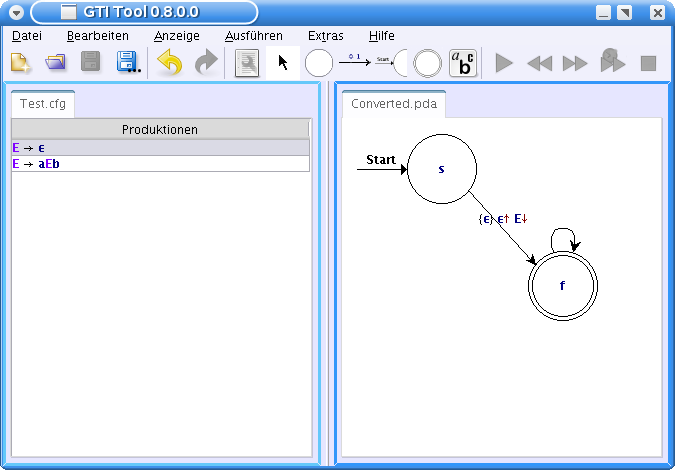
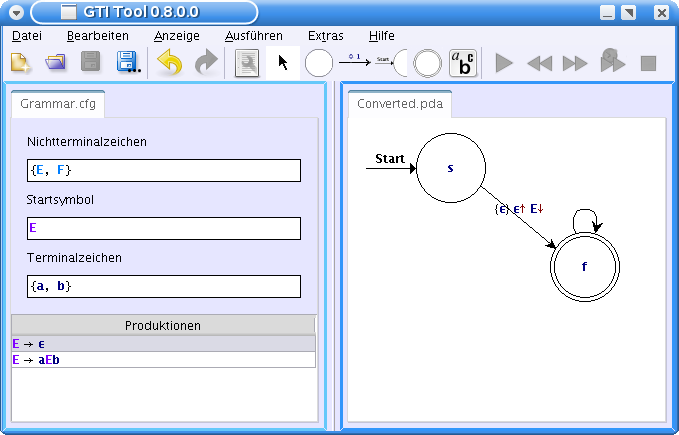
- Complete the right aligned word. - Update the manual. - Update manual images.
git-svn-id: https://vcs.informatik.uni-siegen.de/svn/gtitool/trunk@1173 d1fb0f2a-2248-4f96-a540-7c12a6a72a62

diff --git a/de.unisiegen.gtitool.ui/source/de/unisiegen/gtitool/ui/style/document/StyledParserDocument.java b/de.unisiegen.gtitool.ui/source/de/unisiegen/gtitool/ui/style/document/StyledParserDocument.java
@@ -246,6 +246,20 @@ public final class StyledParserDocument < E extends Entity < E > > extends
 
 
   /**
+   * Returns the hide highlighted {@link Entity} set.
+   * 
+   * @return The hide highlighted {@link Entity} set.
+   */
+  private final SimpleAttributeSet getAttributeSetHideHighlightedParseableEntity ()
+  {
+    SimpleAttributeSet set = new SimpleAttributeSet ();
+    StyleConstants.setBackground ( set, Color.WHITE );
+    StyleConstants.setForeground ( set, Color.WHITE );
+    return set;
+  }
+
+
+  /**
    * Returns the highlighted {@link Entity} set.
    * 
    * @return The highlighted {@link Entity} set.
@@ -321,9 +335,20 @@ public final class StyledParserDocument < E extends Entity < E > > extends
   private final void highlightedParseableEntities ()
   {
     parse ();
+
+    SimpleAttributeSet highlightedParseableEntitySet;
+
+    if ( this.rightAlignment )
+    {
+      highlightedParseableEntitySet = getAttributeSetHideHighlightedParseableEntity ();
+    }
+    else
+    {
+      highlightedParseableEntitySet = getAttributeSetHighlightedParseableEntity ();
+    }
+
     for ( Entity < ? > current : this.highlightedParseableEntityList )
     {
-      SimpleAttributeSet highlightedParseableEntitySet = getAttributeSetHighlightedParseableEntity ();
       highlightedParseableEntitySet.addAttribute ( "highlighting", current ); //$NON-NLS-1$
       if ( ( current.getParserOffset ().getStart () < 0 )
           && ( current.getParserOffset ().getEnd () < 0 ) )

diff --git a/manual/chapter4.tex b/manual/chapter4.tex
@@ -18,6 +18,13 @@ nicht der Fall, wird Englisch verwendet.\vspace{10pt}
 auch jedes andere auf dem System zur Verfügung stehende Look \& Feel benutzt
 werden.\vspace{10pt}
 
+Die Option "`Wort Modus"' bezieht sich auf die Darstellung des Wortes während
+der Wort Navigation. Ist "`Linksbündig"' ausgewählt, wird das Wort normal
+linksbündig dargestellt. Während der Navigation werden schon gelesene Symbole
+hervorgehoben. Ist dagegen "`Rechtsbündig"' ausgewählt, wird das Wort genau wie
+der Keller rechtsbündig dargestellt. Eine weitere Änderung ist, dass die
+gelesenen Symbole nicht hervorgehoben, sondern ausgeblendet werden.\vspace{10pt}
+
 Die Ein\-stell\-ungs\-möglich\-keit "`Zoom Faktor"' bezieht sich auf den Graphen 
 des Automaten, es handelt sich dabei um die für jede Datei benutzte
 Voreinstellung. Der Zoom Faktor kann aber auch auf jeder Datei einzeln gesetzt
